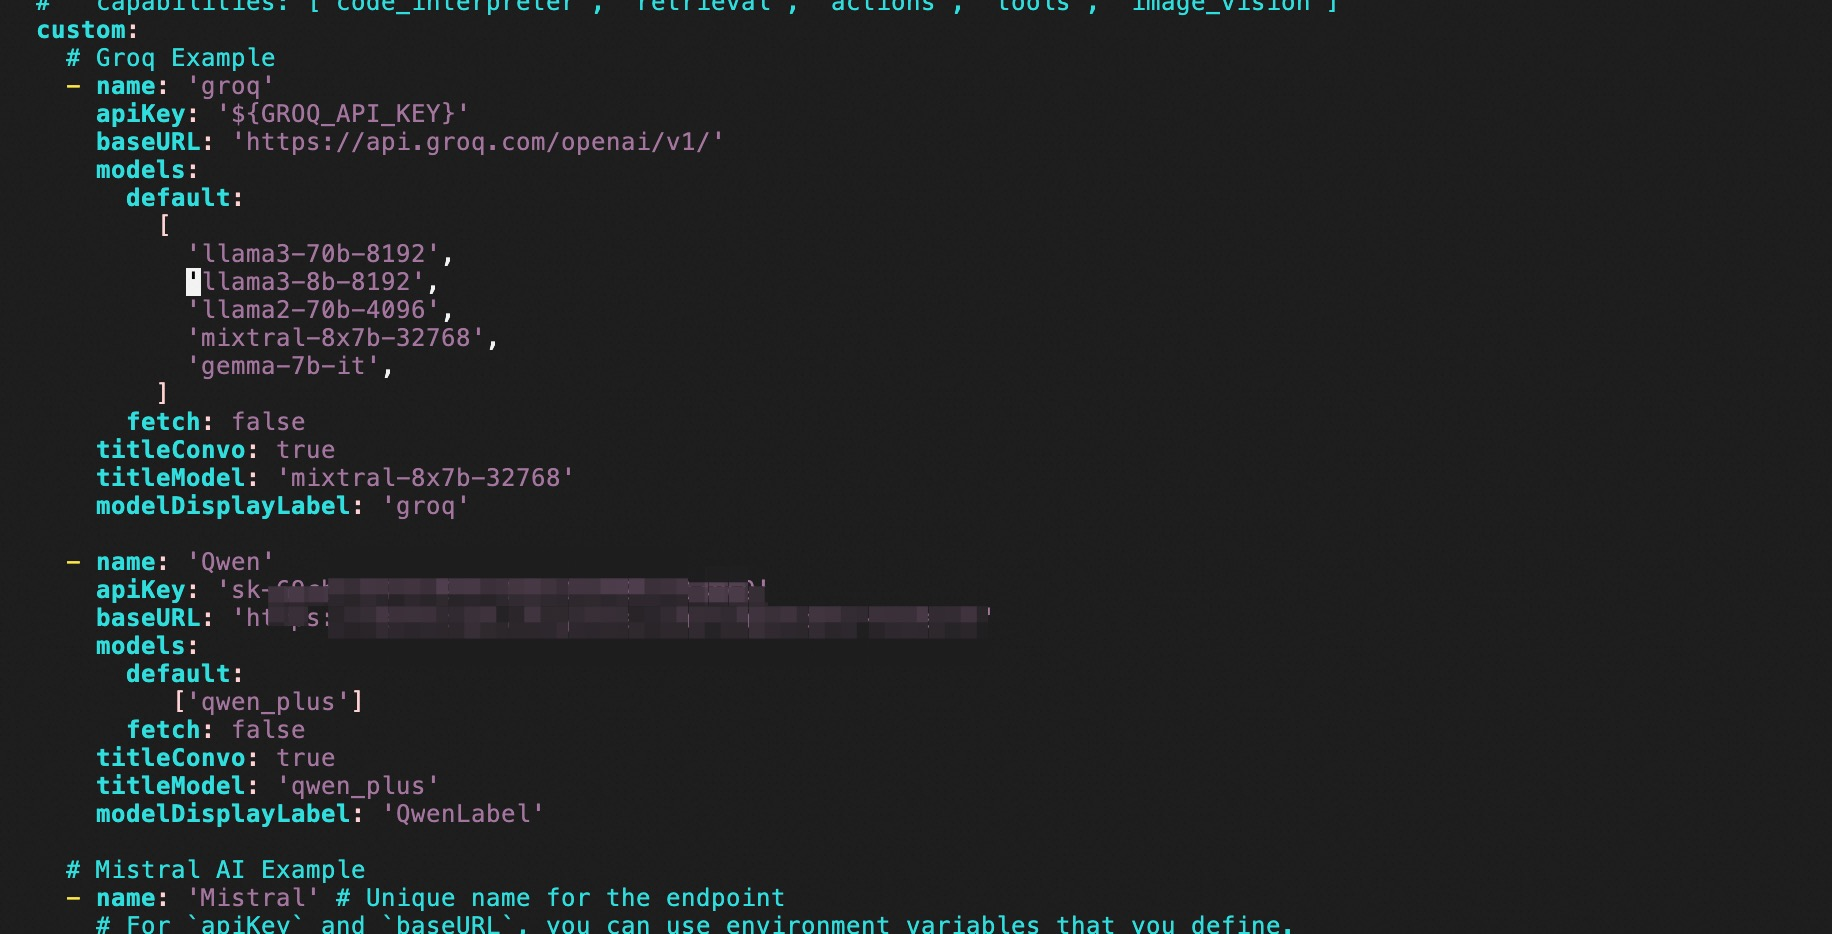
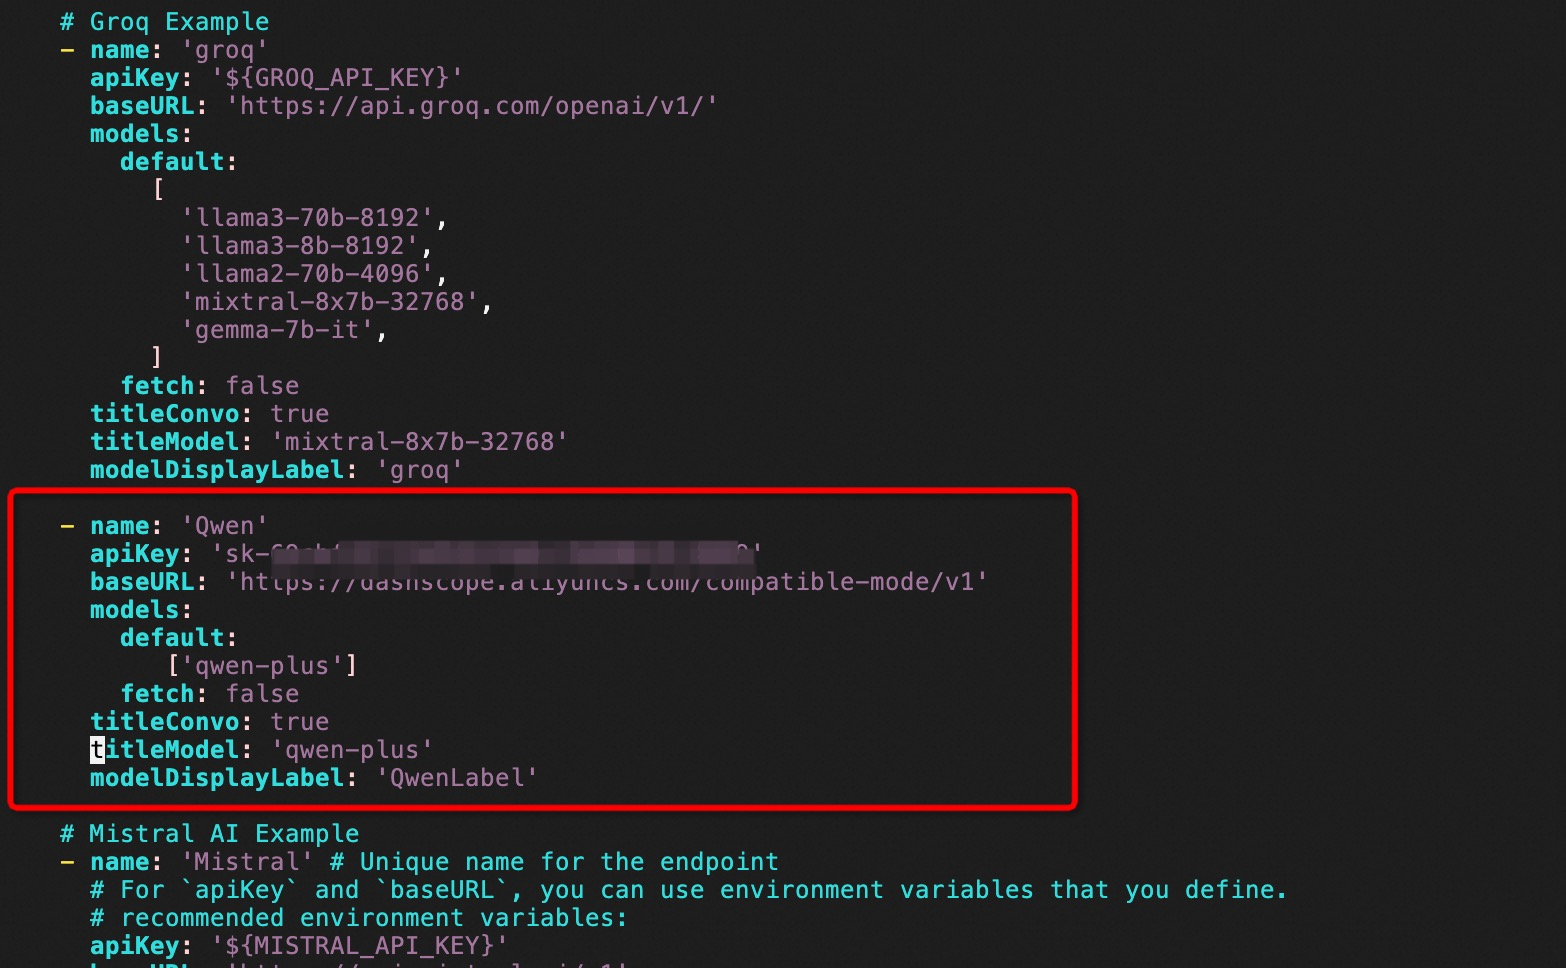
add F&Q

diff --git a/docs/index.md b/docs/index.md
@@ -69,7 +69,7 @@ LibreChat社区版在计算巢部署的费用主要涉及：
 
 ### 二、如何添加转发地址
 
-1. 进入ECS，参考问题一。
+1. 进入ECS，方式参考问题一。
 
 2. 输入命令
 ```json
@@ -86,17 +86,20 @@ sudo vim .env
 
 ### 三、如何添加第三方API模型
 
-1. 进入ECS，参考问题一。
-2. 修改librechat.yaml文件：输入命令（librechat.yaml文件可参考[链接](https://www.librechat.ai/docs/configuration/librechat_yaml/example)）。
+1. 进入ECS，方式参考问题一。
+2. 修改librechat.yaml文件：新增第三方模型，输入命令（librechat.yaml文件可参考[链接](https://www.librechat.ai/docs/configuration/librechat_yaml/example)）。
 ```json
 sudo su
 cd /home/admin/application/docker_compose
 sudo vim librechat.yaml
 ```
+进入librechat.yaml文件（即上面代码中的sudo vim librechat.yaml），此文件中默认已有groq、Mistral、OpenRouster三个模型，如需添加，可按照其格式新增，如下新增了通义千问（Qwen）模型。（URL参考[链接](https://help.aliyun.com/zh/model-studio/developer-reference/use-qwen-by-calling-api?spm=a2c4g.11186623.help-menu-2400256.d_3_3_0.60974823saVLPu)，ApiKey参考[链接](https://help.aliyun.com/zh/model-studio/developer-reference/get-api-key?spm=a2c4g.11186623.help-menu-2400256.d_3_0.1ade4823oTgP9e))。修改方式为：
+    
+a. 按下i键，左下角将会出现'--INSERT--'标志，通过方向键移动光标，输入红框处内容；
 
-   进入librechat.yaml文件，此文件中默认已有groq、Mistral、OpenRouster三个模型，如需添加，可按照其格式新增，如下新增了通义千问（Qwen）.修改完成后按 ESC 键，然后输入 :wq 退出。
+b. 输入完成后按 ESC 键，左下角'--INSERT--'消失，输入:wq（冒号别漏了），保存退出。
 ![image.png](12.jpg)
-3. 修改docker-compose文件：输入命令：
+3. 修改docker-compose文件：配置读取第三方模型，输入命令：
 ```json
 sudo cp docker-compose.yml docker-compose.override.yml
 ```
@@ -111,6 +114,6 @@ sudo cp docker-compose.yml docker-compose.override.yml
 ```json
 sudo docker compose up
 ```
-5. 效果展示：进入LibreChat页面，第三方API模型已显示。
+5. 进入LibreChat页面，第三方API模型已显示，选择Qwen即可对话。
 
 ![image.png](16.jpg)
